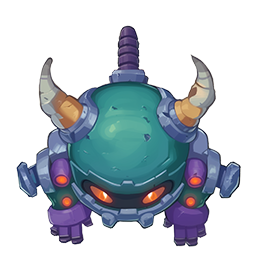
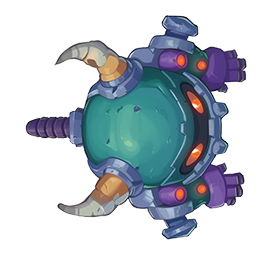
image fixes

diff --git a/Assets/03_Scripts/06_RobotRampage/Controllers/Monsters/RobotRampageMonsterController.cs b/Assets/03_Scripts/06_RobotRampage/Controllers/Monsters/RobotRampageMonsterController.cs
@@ -40,8 +40,8 @@ namespace PeanutDashboard._06_RobotRampage
             currentPos.x = currentPos.x - RobotRampagePlayerController.currentPosition.x;
             currentPos.y = currentPos.y - RobotRampagePlayerController.currentPosition.y;
 
-            float angle = Mathf.Atan2(currentPos.y, currentPos.x) * Mathf.Rad2Deg;
-            _enemyImage.transform.rotation = Quaternion.Euler(new Vector3(0, 0, angle - 90));
+            float angle = Mathf.Atan2(-currentPos.y, -currentPos.x) * Mathf.Rad2Deg;
+            _enemyImage.transform.rotation = Quaternion.Euler(new Vector3(0, 0, angle));
             
             if (Vector2.Distance(this.transform.position, RobotRampagePlayerController.currentPosition) > 12f)
             {
